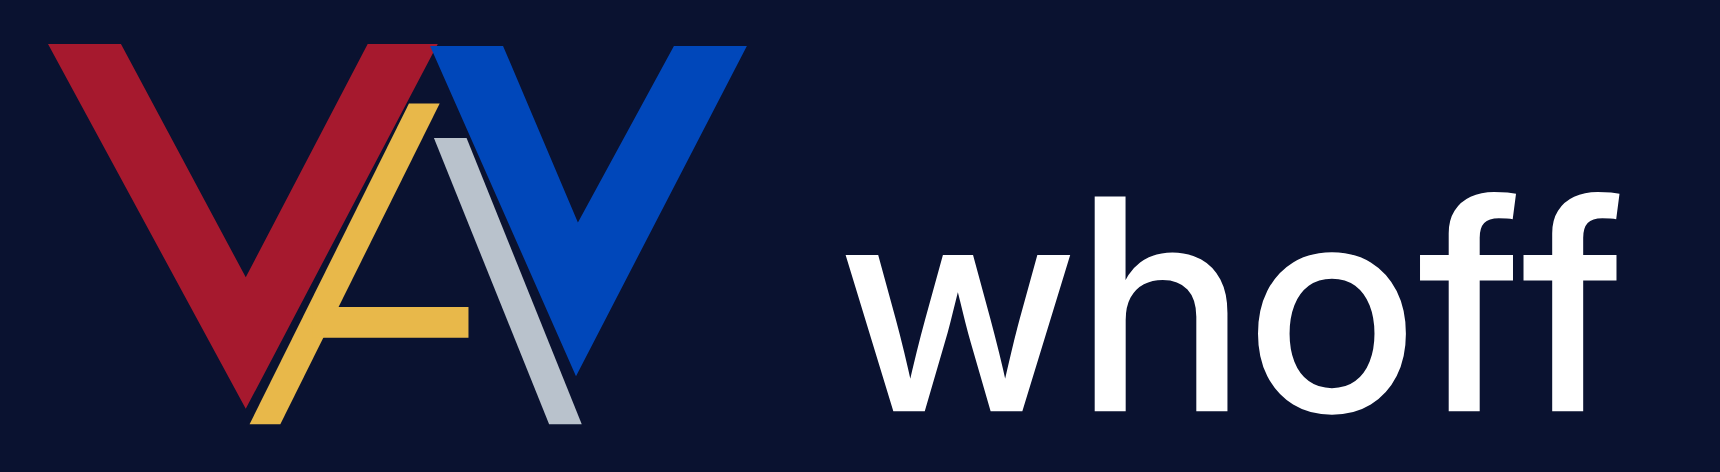
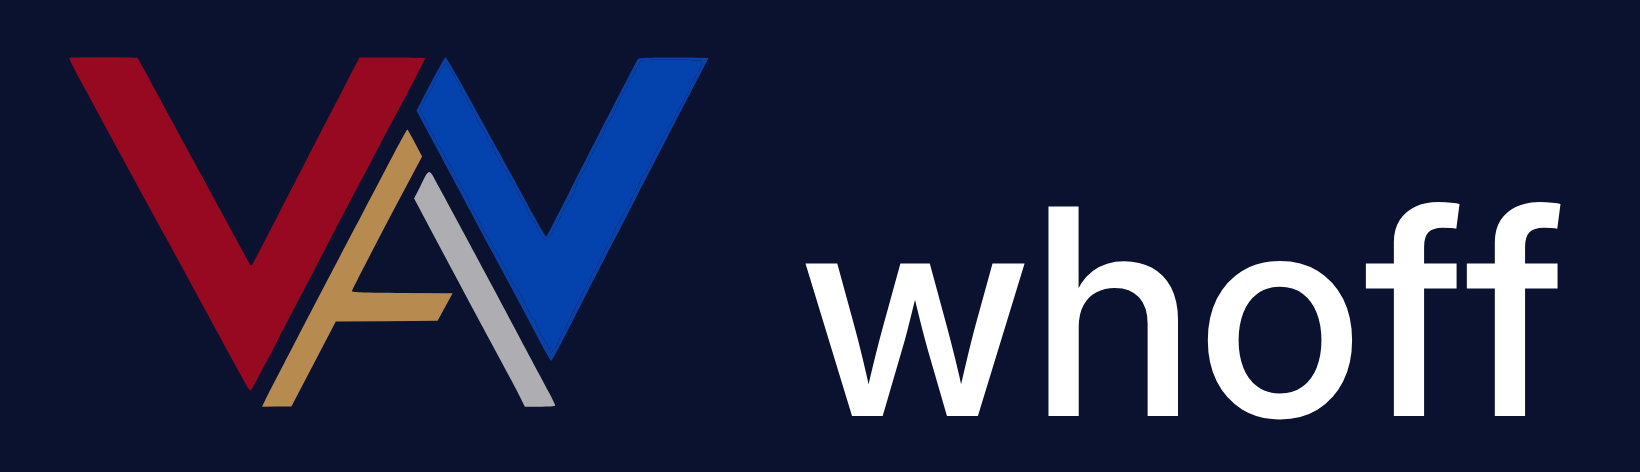
brand: asset set v4 from the official-conversion master (Will's colors)

Changed region(s): [[0.0311, 0.089, 0.3732, 0.9195], [0.4665, 0.3856, 0.964, 0.8898], [0.3732, 0.089, 0.4354, 0.1483]]

diff --git a/public/brand/PALETTE.md b/public/brand/PALETTE.md
@@ -1,7 +1,7 @@
-# Whoff Agents brand palette (locked 2026-09-07, Will)
-- VMI crimson  #A6192E  (left V, primary accent)
-- Royal blue   #0047BA  (right V; Will chose Grok's brighter blue over official BYU navy #002E5D because navy sinks on dark grounds; alt #0062B8)
-- Gold         #E8B84A  (A, left leg / crossbar half)
-- Silver       #B9C2CC  (A, right leg / crossbar half)
+# Whoff Agents brand palette (locked 2026-09-07, Will; colors from Will's corrected SVG)
+- VMI crimson  #970921  (left V)
+- Royal blue   #0442AE  (right V; a darker rim #0B40A4 exists in the traced geometry)
+- Gold         #B78A4F  (A left leg + crossbar)
+- Silver       #ADADB2  (A right leg)
 - Ground dark  #0A1230 ; ground light #F3F5F8 ; ink #0F141A
-System: primary mark = Grok "Option 1" geometry (tight edit #4), wordmark = geometric sans from Grok's stacked set, stacked variant = Grok #2, favicon = primary W with crossbar only.
+Master: Ops/brand/wa-mark-v5.svg = the official-tool conversion of Grok image 1 with Will's color fix (geometry untouched). Wordmark: Inter Medium outlines from Grok (grok/IuloV.svg). All assets in this folder derive from those two files.
